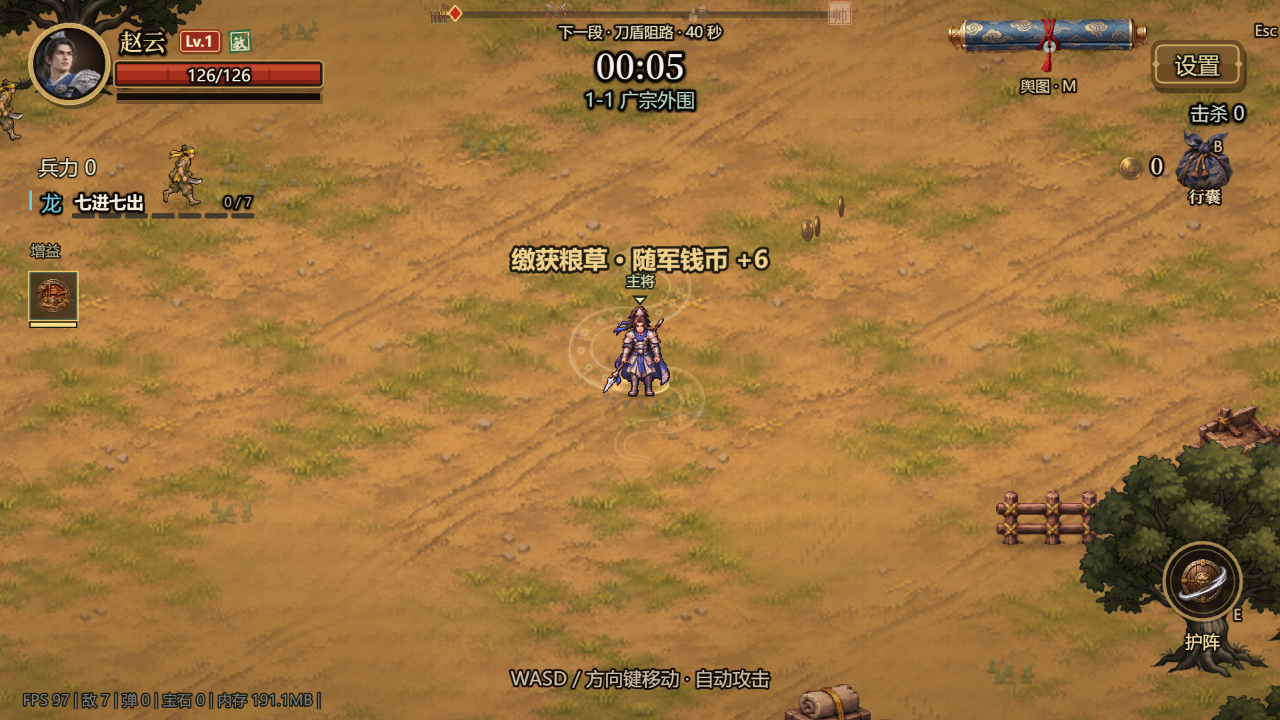
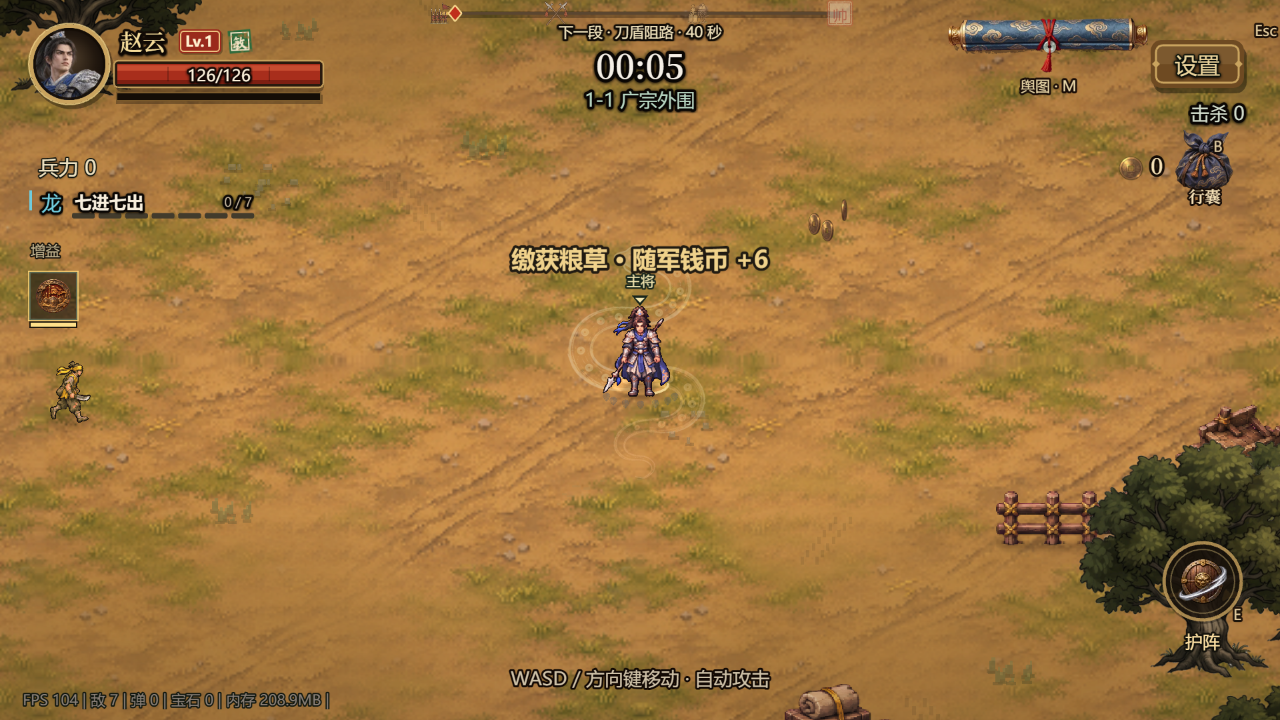
军功符也飞进行囊（用户「军功符也要飞进行囊」）：经验信物照旧被吸向主将（磁石范围、加速、残影不变），碰到主将的那一刻照旧入账经验（升级时机不变）；之后从主将处再飞一枚同贴图信物（青玉符 / 金令牌第 0 帧）进右上行囊（约 0.35 秒，到达时行囊同样鼓一下，不动钱币数字、不出声、不叠落袋声）。限流：每 0.1 秒最多起飞 2 枚、同屏最多 10 枚，超出不画；手机布局与降级信物不画。CoinFly.token()。shot-coins 13/13（新增：信物还在飞时经验已入账、同屏 ≤ 10）；截图 assets/review/coins/battle-xp-to-bag.png

diff --git a/src/ui/CoinFly.ts b/src/ui/CoinFly.ts
@@ -49,6 +49,7 @@ export function ensureCoinArt(scene: Phaser.Scene, done?: () => void): void {
   if (done) L.once('complete', done);
   if (!L.isLoading()) L.start();
 }
+const TOKEN_DUR = 350, TOKEN_WINDOW = 100, TOKEN_PER_WINDOW = 2, TOKEN_MAX = 10;
 const DUR = 450, STAGGER = 55, MAX_LIVE = 12, SETTLE_MS = 900, POP = .22, FLASH_MS = 250, CLAIM_MS = 1500;
 interface Coin { img: Phaser.GameObjects.Sprite | null; t0: number; x0: number; y0: number; cx: number; cy: number; batch: Batch }
 interface Batch { amount: number; t0: number; left: number }
@@ -69,7 +70,7 @@ export class CoinFly {
     scene.events.on(Phaser.Scenes.Events.UPDATE, this.onUpdate);
     scene.events.once(Phaser.Scenes.Events.SHUTDOWN, () => this.destroy());
   }
-  destroy(): void { this.scene.events.off(Phaser.Scenes.Events.UPDATE, this.onUpdate); for (const c of this.coins) c.img?.destroy(); this.coins = []; this.batches = []; }
+  destroy(): void { this.scene.events.off(Phaser.Scenes.Events.UPDATE, this.onUpdate); for (const c of this.coins) c.img?.destroy(); for (const t of this.tokens) t.img.destroy(); this.coins = []; this.tokens = []; this.batches = []; }
   /** 还在飞、没到达的钱（界面显示 真值 − 这个数）。 */
   displayLag(): number { const now = performance.now(); let n = 0; for (const b of this.batches) if (now - b.t0 < SETTLE_MS) n += b.amount; return n; }
   /** 数值被别处直接改了（读档、重置）时同步基准，不飞。 */
@@ -78,6 +79,34 @@ export class CoinFly {
   get flying(): number { return this.coins.length; }
   /** 测试用：目标切到「鼓起」贴图的次数。 */
   flashes = 0;
+
+  // ───────── 经验信物飞进行囊（2026-11-21 用户「军功符也要飞进行囊」）─────────
+  // 纯表现：经验在信物碰到主将时就已入账；这里从主将处再飞一段到目标（约 0.35 秒），到达时目标一样轻轻一鼓，不动钱币数字、不出声。
+  // 经验掉得多：每 0.1 秒最多起飞 2 枚、同屏最多 10 枚，超出的不画。
+  private tokens: Array<{ img: Phaser.GameObjects.Image; t0: number; x0: number; y0: number; cx: number; cy: number }> = [];
+  private tokenLaunches: number[] = [];
+  /** 测试用：在飞的信物数 / 累计起飞数。 */
+  get tokensFlying(): number { return this.tokens.length; }
+  tokensLaunched = 0;
+  /** 从 from（HUD 坐标）飞一枚信物（贴图 key 的 frame 帧，显示 size）到目标；超过限流就不画，返回是否起飞。 */
+  token(from: { x: number; y: number }, key: string, frame: number, size: number): boolean {
+    const now = performance.now(), purse = this.o.purse();
+    this.tokenLaunches = this.tokenLaunches.filter(t => now - t < TOKEN_WINDOW);
+    if (!purse || !this.scene.textures.exists(key) || this.tokens.length >= TOKEN_MAX || this.tokenLaunches.length >= TOKEN_PER_WINDOW) return false;
+    this.tokenLaunches.push(now); this.tokensLaunched++;
+    const img = this.scene.add.image(from.x, from.y, key, frame).setScrollFactor(0).setDepth(this.o.depth).setName('token-fly'); img.setScale(size / Math.max(1, img.width));
+    img.setData('s', img.scaleX);
+    this.tokens.push({ img, t0: now, x0: from.x, y0: from.y, cx: (from.x + purse.x) / 2 + (Math.random() - .5) * 30, cy: Math.min(from.y, purse.y) - 40 - Math.random() * 20 });
+    return true;
+  }
+  private updateTokens(now: number, purse: Phaser.GameObjects.Image | null): void {
+    for (let i = this.tokens.length - 1; i >= 0; i--) {
+      const c = this.tokens[i], k = (now - c.t0) / TOKEN_DUR;
+      if (k >= 1 || !purse) { c.img.destroy(); this.tokens.splice(i, 1); if (purse) this.bump(now); continue; }
+      const t = k * k, a = (1 - t) * (1 - t), b = 2 * (1 - t) * t, d = t * t;
+      c.img.setPosition(a * c.x0 + b * c.cx + d * purse.x, a * c.y0 + b * c.cy + d * purse.y).setScale((c.img.getData('s') as number) * (1 - .3 * Math.max(0, k - .6) / .4));
+    }
+  }
 
   /** 通用入口：从 from（HUD 坐标）飞 amount 的钱到目标。钱应当已经（或马上）加进数值里；这里只管表现。 */
   burst(from: { x: number; y: number }, amount: number): void {
@@ -106,6 +135,7 @@ export class CoinFly {
       c.img?.setVisible(true).setPosition(x, y).setScale((c.img.getData('s') as number) * (1 - .25 * Math.max(0, k - .7) / .3));
       if (c.img && this.scene.textures.exists(COIN_ART.flip)) c.img.setFrame(Math.floor((now - c.t0) / 70) % 6); // 约 14 帧 / 秒翻转
     }
+    this.updateTokens(now, purse);
     this.batches = this.batches.filter(b => b.left > 0 && now - b.t0 < SETTLE_MS);
     this.o.onFrame?.(Math.max(0, Math.round(v - this.displayLag())));
     if (purse) {

diff --git a/src/scenes/GameScene.ts b/src/scenes/GameScene.ts
@@ -3238,6 +3238,8 @@ export class GameScene extends Phaser.Scene {
         if (!gem.lite) this.gemSpark(px, py);
         // 拾取军功宝石不再播放音效（用户要求；战场补给拾取仍有音效）
         const gained = this.player.gainXp(this.player.growth.scaleXp(gem.value, this.heroXpRate()));
+        // 2026-11-21 用户「军功符也要飞进行囊」：经验照旧此刻入账；再从主将处飞一枚信物进右上行囊（纯表现，限流；手机布局 / 降级不画、不出声）
+        if (IS_DESKTOP && !gem.lite && this.coinToUi) this.coinFly?.token(this.coinToUi(px, py), img.texture.key, 0, gem.large ? 22 : 16);
         this.relics?.onGem(this.combatNow);
         if (gained > 0) this.onHeroLevelUp(gained); // 软上限（2026-11-20）：不封顶，越级后每级 ×1.45
         continue;
